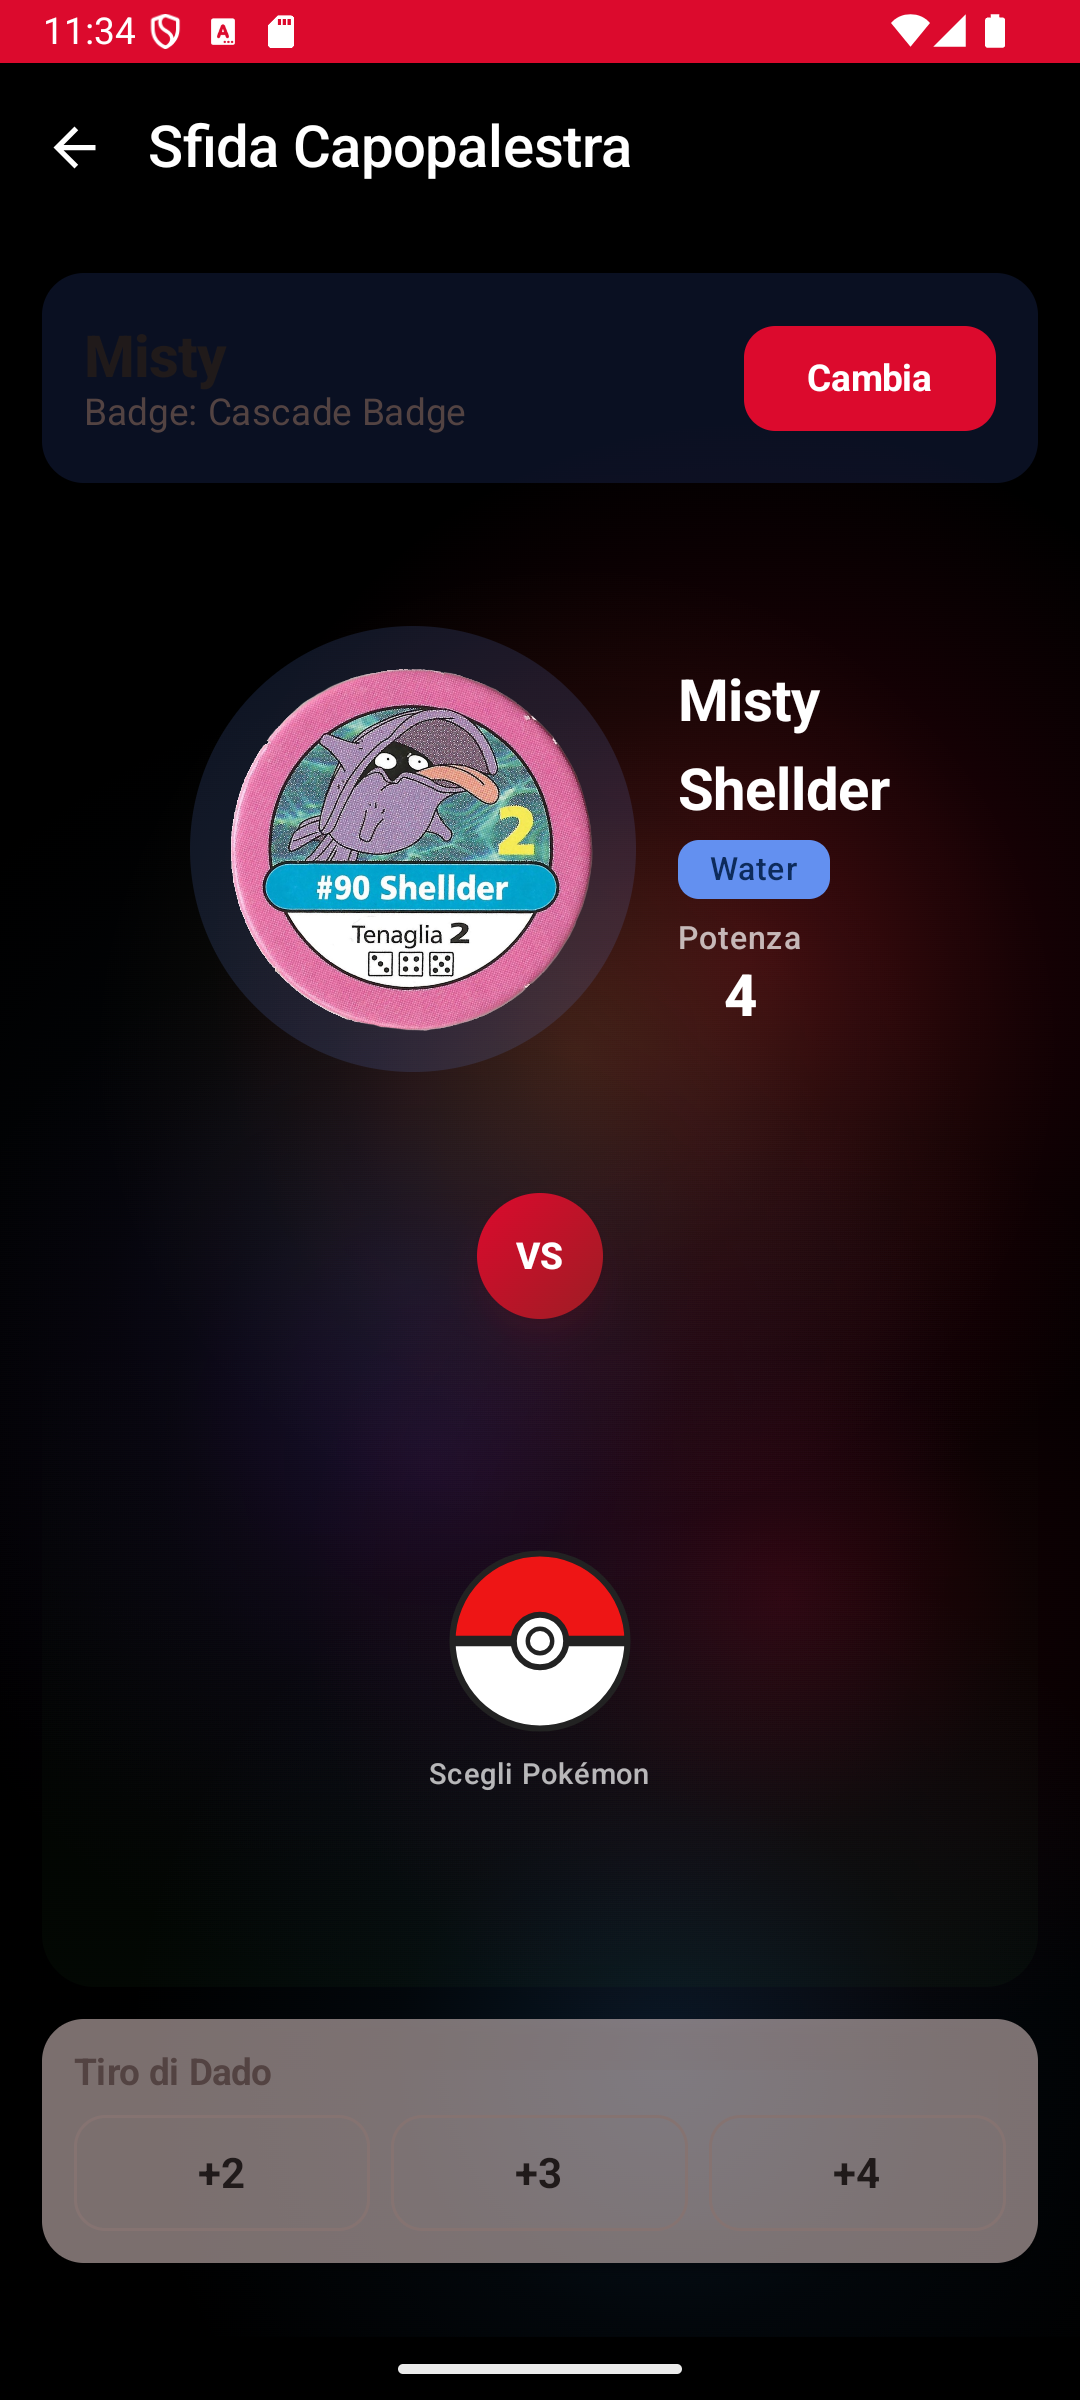
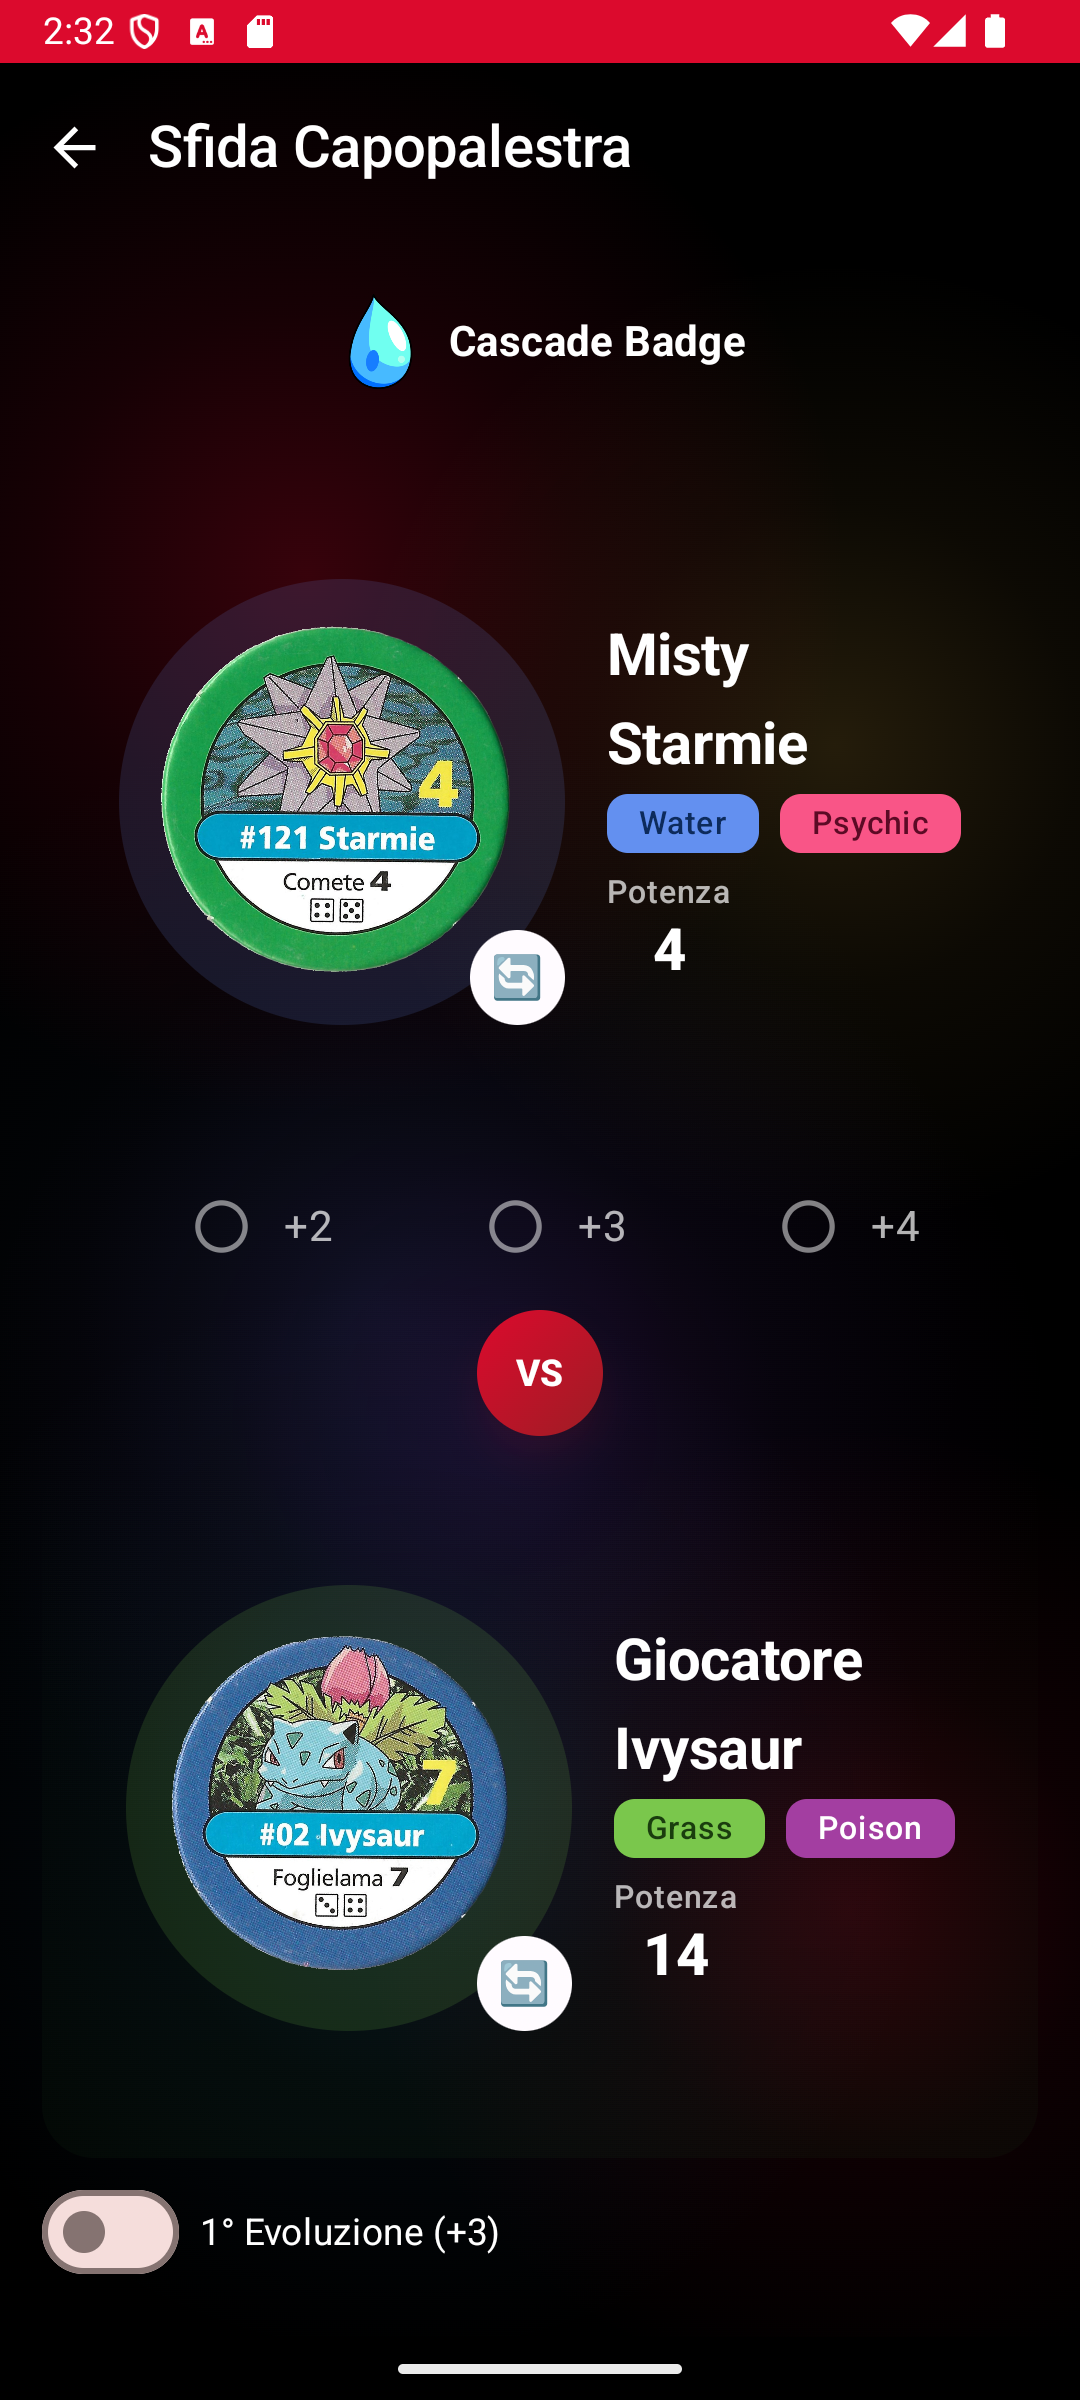
Update README and screenshots with latest UI improvements
- Updated main menu screenshot with custom carousel images
- Updated gym battle screenshot showing badge image, radio dice selector,
  and evolution toggles
- Refreshed feature descriptions to reflect new functionality
- Removed XML logo reference from README header

diff --git a/README.md b/README.md
@@ -1,7 +1,3 @@
-<p align="center">
-  <img src="app/src/main/res/drawable/pokeball_vector.xml" width="80" alt="PokeApp Logo"/>
-</p>
-
 <h1 align="center">PokeApp - Master Trainer</h1>
 
 <p align="center">
@@ -23,19 +19,19 @@
   <img src="screenshots/main_menu.png" width="180" alt="Main Menu"/>
   <img src="screenshots/pokedex.png" width="180" alt="Pokedex"/>
   <img src="screenshots/pokemon_detail.png" width="180" alt="Pokemon Detail"/>
-  <img src="screenshots/battle.png" width="180" alt="Battle"/>
   <img src="screenshots/gym_battle.png" width="180" alt="Gym Battle"/>
+  <img src="screenshots/battle.png" width="180" alt="Battle"/>
 </p>
 
 ## Features
 
 - **151 Pokemon** - Complete Gen 1 Pokedex with original artwork, stats, types, and Italian names
-- **Trainer Battles** - Player vs Player combat with power calculation and type advantages
-- **Gym Leaders** - Challenge 13 gym leaders, each with their signature Pokemon and badge
-- **Random Encounters** - Simulate wild Pokemon encounters from the board game
+- **Trainer Battles** - Player vs Player combat with power calculation, type advantages, and evolution toggles
+- **Gym Leaders** - Challenge 13 gym leaders, each with their fixed signature Pokemon, badge image, and dice bonus system
+- **Random Encounters** - Simulate wild Pokemon encounters from the board game with evolution support
 - **Type Effectiveness** - Full type chart with damage multipliers, strengths, and weaknesses
-- **Evolution System** - Toggle evolution stages with power bonuses (+3 / +2)
-- **Dark Theme** - Pokemon-style dark UI with vibrant type-colored accents
+- **Evolution System** - Toggle evolution stages with power bonuses (+3 / +2) on player Pokemon
+- **Dark Theme** - Pokemon-style dark UI with vibrant type-colored accents and custom artwork
 
 ## Tech Stack
 
